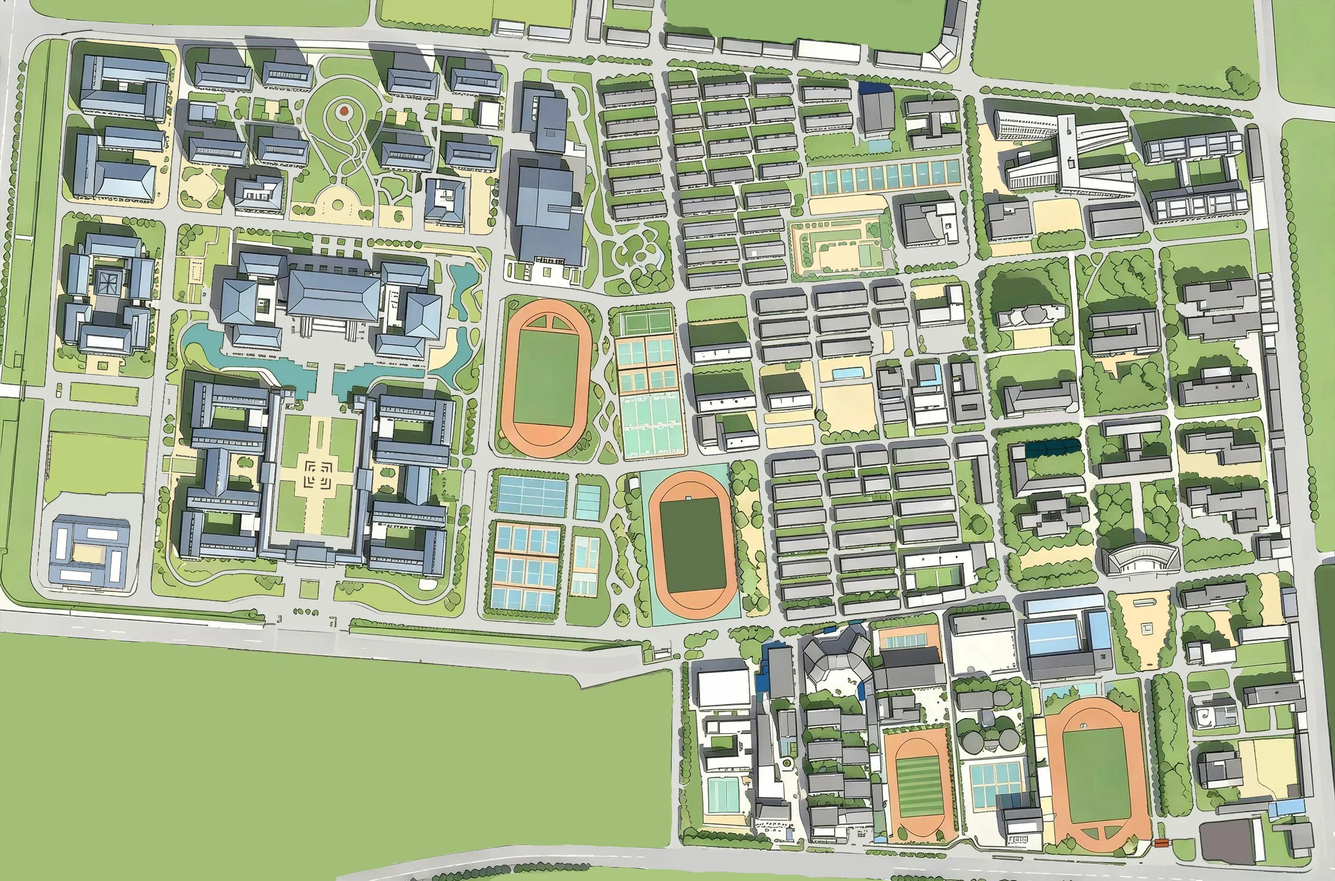
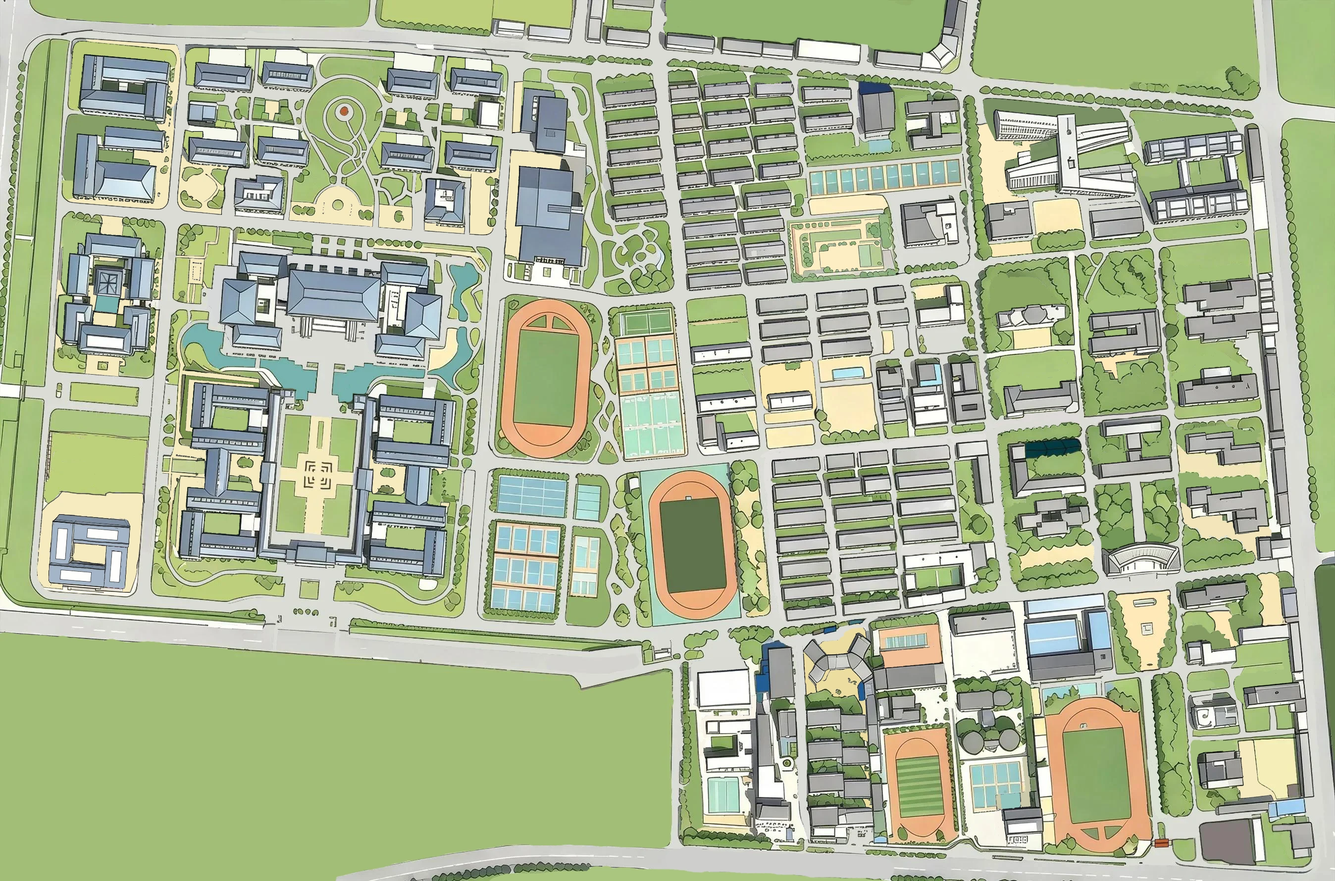
Add files via upload

diff --git a/index.html b/index.html
@@ -1888,7 +1888,7 @@ if(document.readyState==="loading"){
     </div>
     <div class="dl-body" id="dl-body">
       <p>本网站为<em>非官方个人项目，不代表学校或任何官方机构立场</em>，所有内容仅供学习参考。</p>
-      <p>由于个人制作，地图、路线及地点信息可能存在滞后或偏差，仅供参考，切勿当真，<em>请以现实中建筑实际布局位置为准</em>。</p>
+      <p>由于个人制作，地图、路线及地点信息可能存在滞后或偏差，仅供参考，切勿当真，<em>请以现实中建筑实际位置及布局为准</em>。</p>
       <p class="dl-contact">如涉及版权或其他权益问题，请及时联系以删除内容。</p>
     </div>
     <div class="dl-foot">
